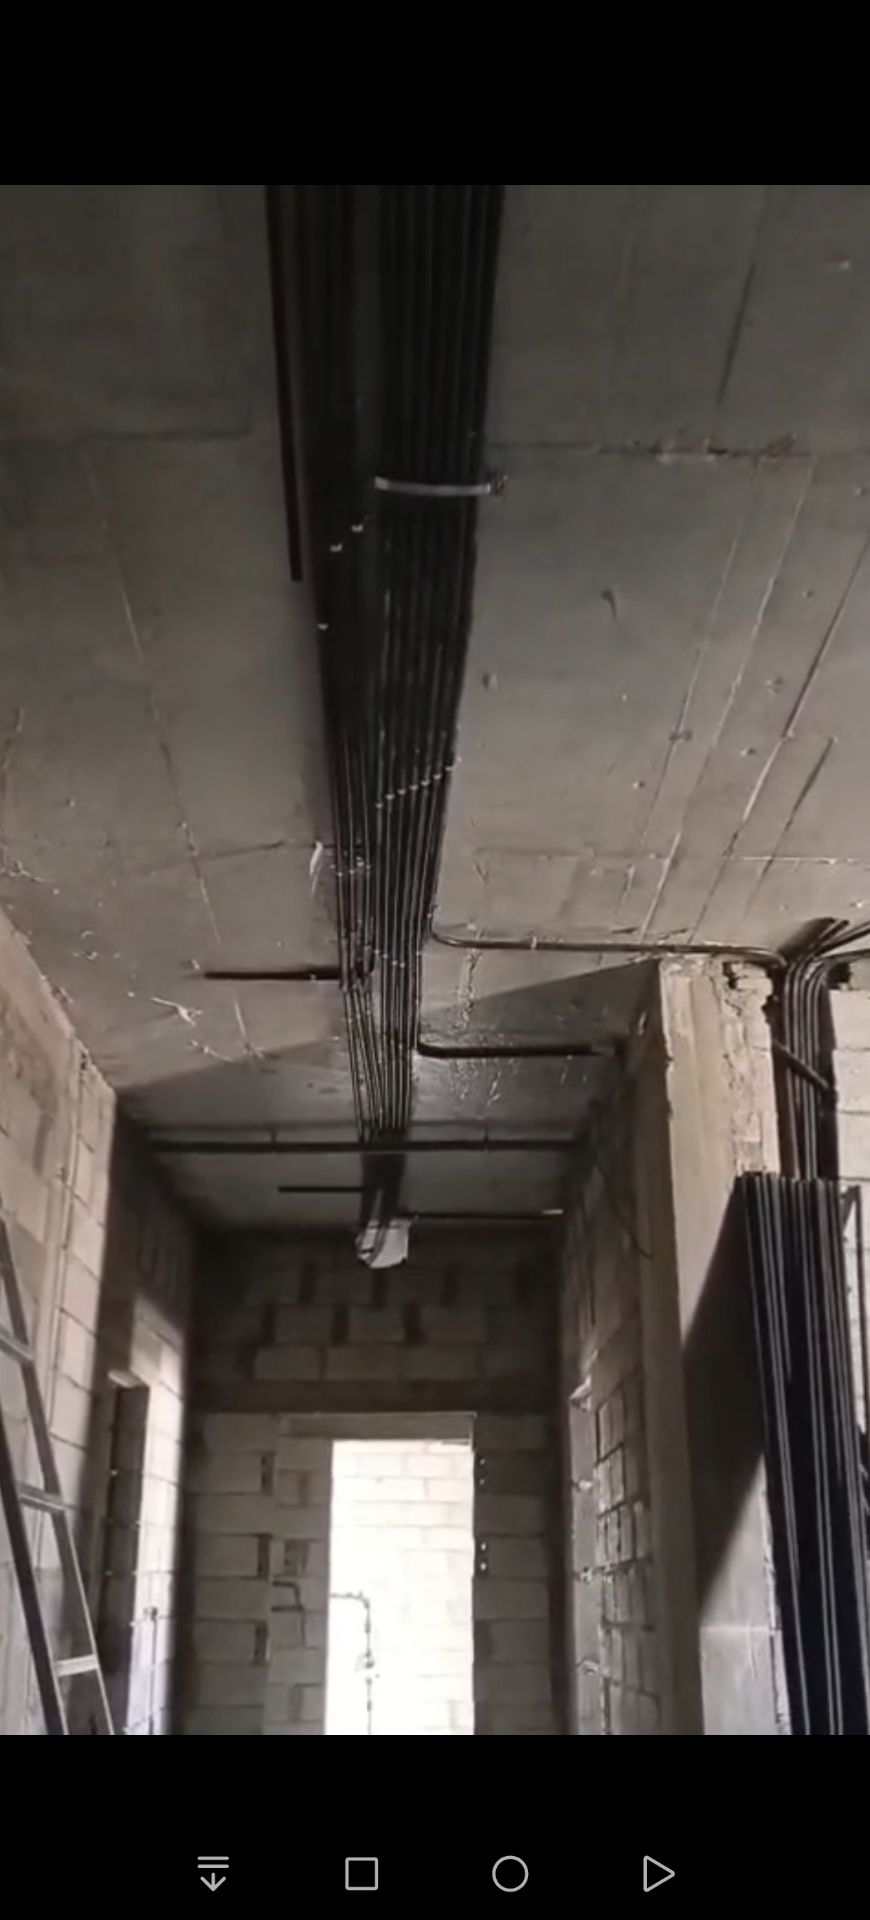
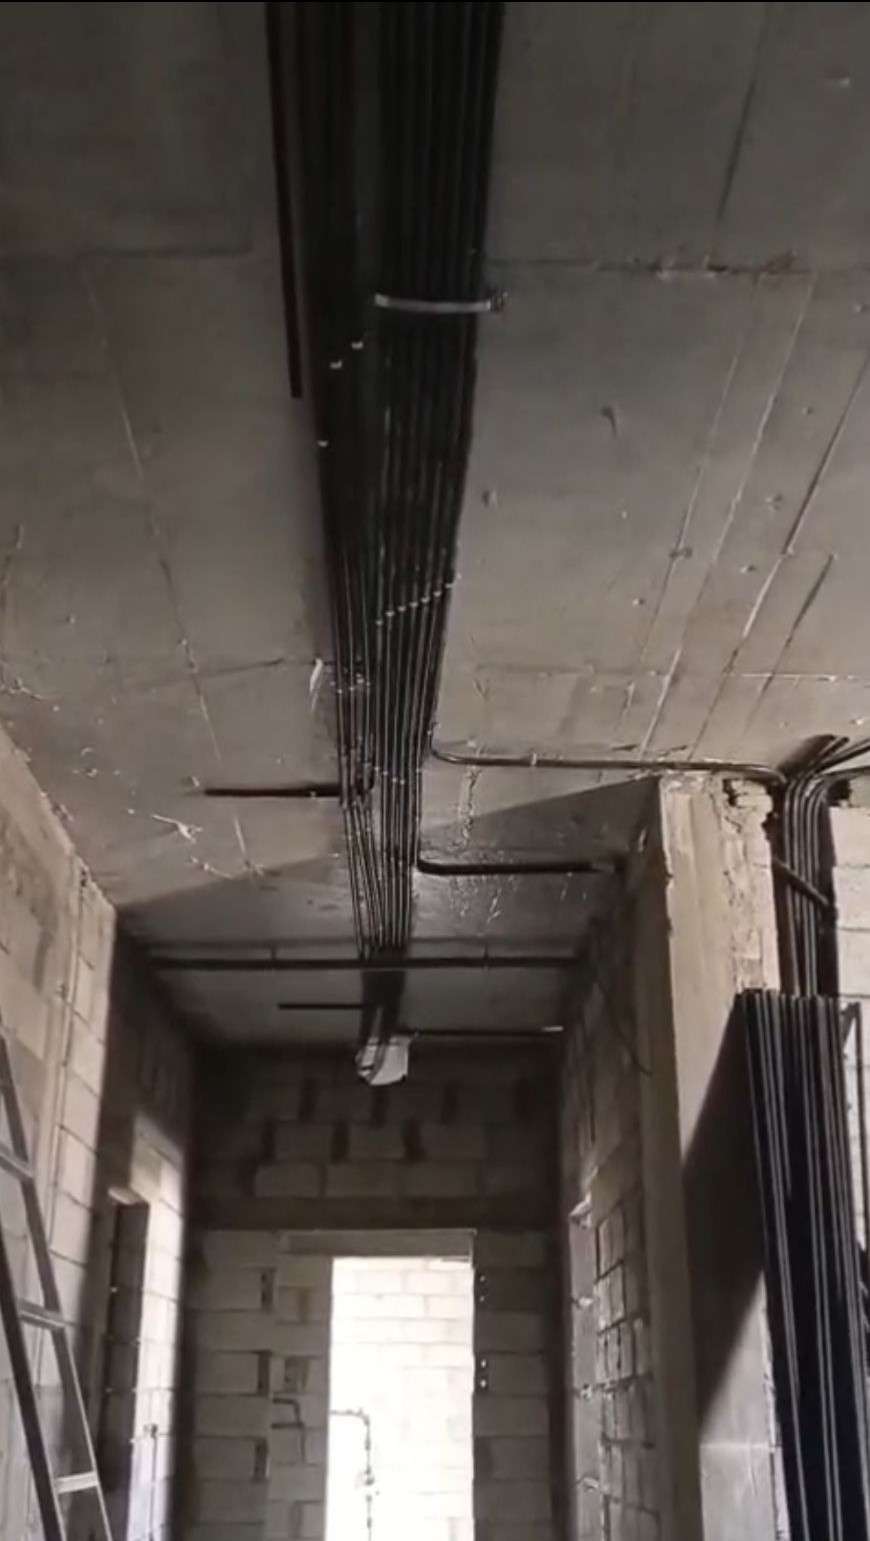
Refactor footer layout and update service data for improved clarity
- Removed social links from the footer and replaced them with a WhatsApp button for streamlined contact options.
- Updated footer copyright information to display the current year and site name.
- Simplified navigation items by removing unused data imports and adjusting the structure for better maintainability.
- Enhanced service descriptions and alt texts in serviceDrafts for improved accuracy and relevance.

diff --git a/app/shared/data/services/index.ts b/app/shared/data/services/index.ts
@@ -41,7 +41,7 @@ const serviceDrafts: ServiceDraft[] = [
       },
       {
         src: '/images/services/networks-laser-outlets.jpg',
-        alt: 'أفياش ومفاتيح بعد التأسيس',
+        alt: 'علب أفياش على الطوب، مع ليزر التسوية',
       },
       {
         src: '/images/services/networks-corridor-conduits.jpg',
@@ -70,12 +70,12 @@ const serviceDrafts: ServiceDraft[] = [
         alt: 'سبوت موزّع على السقف',
       },
       {
-        src: '/images/services/123.jpg',
-        alt: 'إضاءة معلّقة بعد التركيب',
+        src: '/images/services/lighting-hanging-glass.jpg',
+        alt: 'ثريا زجاج معلّقة من السقف',
       },
       {
         src: '/images/services/lighting-glass-cloud.jpg',
-        alt: 'ثريا مركّبة في السقف',
+        alt: 'ثريا ذهبية بقطع زجاج',
       },
     ],
   },
@@ -132,8 +132,8 @@ const serviceDrafts: ServiceDraft[] = [
         alt: 'شاشة انتركوم داخل البيت',
       },
       {
-        src: '/images/services/intercom-keypad-wiring.jpg',
-        alt: 'توصيل انتركوم وقت التركيب',
+        src: '/images/services/intercom-button-panel.jpg',
+        alt: 'وحدة انتركوم بأزرار على الجدار',
       },
     ],
   },
@@ -155,7 +155,7 @@ const serviceDrafts: ServiceDraft[] = [
       },
       {
         src: '/images/services/ac-copper-lines.jpg',
-        alt: 'تمديد نحاس المكيف',
+        alt: 'مواسير المكيف داخل جدار الطوب',
       },
       {
         src: '/images/services/ac-wall-piping.jpg',
@@ -163,7 +163,7 @@ const serviceDrafts: ServiceDraft[] = [
       },
       {
         src: '/images/services/ac-ceiling-pipes.jpg',
-        alt: 'مواسير المكيف في السقف',
+        alt: 'مواسير المكيف في السقف والجدار',
       },
     ],
   },
@@ -180,12 +180,12 @@ const serviceDrafts: ServiceDraft[] = [
     body: 'من اللوحة لين النقطة. تعرف وين العطل وإيش بيكلف، قبل لا نغيّر شي.',
     gallery: [
       {
-        src: '/images/services/networks-breaker-panel.jpg',
-        alt: 'فحص لوحة الكهرباء',
+        src: '/images/services/fault-wall-outlets.jpg',
+        alt: 'أفياش مكشوفة في الجدار',
       },
       {
-        src: '/images/services/networks-conduit-panel.jpg',
-        alt: 'فحص القواطع والتوصيل',
+        src: '/images/services/networks-breaker-panel.jpg',
+        alt: 'فحص لوحة الكهرباء',
       },
     ],
   },

diff --git a/app/components/site/layouts/Footer.vue b/app/components/site/layouts/Footer.vue
@@ -1,29 +1,30 @@
 <script setup lang="ts">
-import { navItems, site, socialLinks } from '@/shared/data'
+import { site } from '@/shared/data'
+
+const { ui } = useAppConfig()
+const { whatsappUrl } = useContact()
+const year = new Date().getFullYear()
 </script>
 
 <template>
   <UFooter>
     <template #left>
-      <p class="text-sm text-muted">
-        &copy; {{ site.copyright }}
+      <p class="caption-sm">
+        &copy; {{ year }} {{ site.name }}
       </p>
     </template>
-    <UNavigationMenu
-      :items="navItems"
-      variant="link"
-      color="neutral"
-    />
+
     <template #right>
       <UButton
-        v-for="socialLink in socialLinks"
-        :key="socialLink.to"
-        :icon="socialLink.icon"
-        :to="socialLink.to"
-        :target="socialLink.target"
-        :aria-label="socialLink['aria-label']"
-        variant="link"
+        :icon="ui.icons.whatsapp"
+        aria-label="واتساب"
         color="neutral"
+        variant="link"
+        size="xs"
+        class="hidden lg:inline-flex"
+        :to="whatsappUrl"
+        target="_blank"
+        rel="noopener noreferrer"
       />
     </template>
   </UFooter>

diff --git a/app/shared/types/site.ts b/app/shared/types/site.ts
@@ -1,7 +1,6 @@
 export interface SiteSettings {
   name: string
   city: string
-  copyright: string
   logo: string
   /** International digits only, no + (e.g. 9665XXXXXXXX) */
   phone: string
@@ -11,14 +10,6 @@ export interface NavItem {
   label: string
   to: string
   icon?: string
-}
-
-export interface SocialLink {
-  'label'?: string
-  'to': string
-  'icon': string
-  'target'?: string
-  'aria-label'?: string
 }
 
 export interface FeatureBadgeItem {

diff --git a/app/shared/data/site.ts b/app/shared/data/site.ts
@@ -3,7 +3,6 @@ import type { SiteSettings } from '~/shared/types/site'
 export const site = {
   name: 'أبو تيم الكهربائي',
   city: 'مكة',
-  copyright: `${new Date().getFullYear()} جميع الحقوق محفوظة`,
   logo: '/images/logos/logo.png',
-  phone: '967738271423',
+  phone: '+966 57 630 1886',
 } satisfies SiteSettings

diff --git a/app/shared/data/services/slides.ts b/app/shared/data/services/slides.ts
@@ -13,7 +13,7 @@ export const serviceSlides: ServiceSlide[] = [
   },
   {
     src: '/images/services/led-cross-tracks.jpg',
-    alt: 'ليد مخفي في سلاكة السقف',
+    alt: 'ليد خطي في السقف',
     caption: 'ليد جوا السلاكة، النور باين',
   },
   {

diff --git a/app/shared/data/nav.ts b/app/shared/data/nav.ts
@@ -1,12 +1,8 @@
 import type { NavItem } from '../types/site'
 
-export const navItems: NavItem[] = [
+export const navItems = [
   {
-    label: 'الرئيسية',
-    to: '/',
-  },
-  {
-    label: 'خدماتنا',
+    label: 'خدمات',
     to: '/services',
   },
-]
+] satisfies NavItem[]

diff --git a/app/shared/data/index.ts b/app/shared/data/index.ts
@@ -1,6 +1,5 @@
 export { site } from './site'
 export { navItems } from './nav'
-export { socialLinks } from './social'
 export { serviceBadges } from './badges'
 export { whyChooseUs } from './why-choose-us'
 export { howWeWorkSteps } from './how-we-work'
